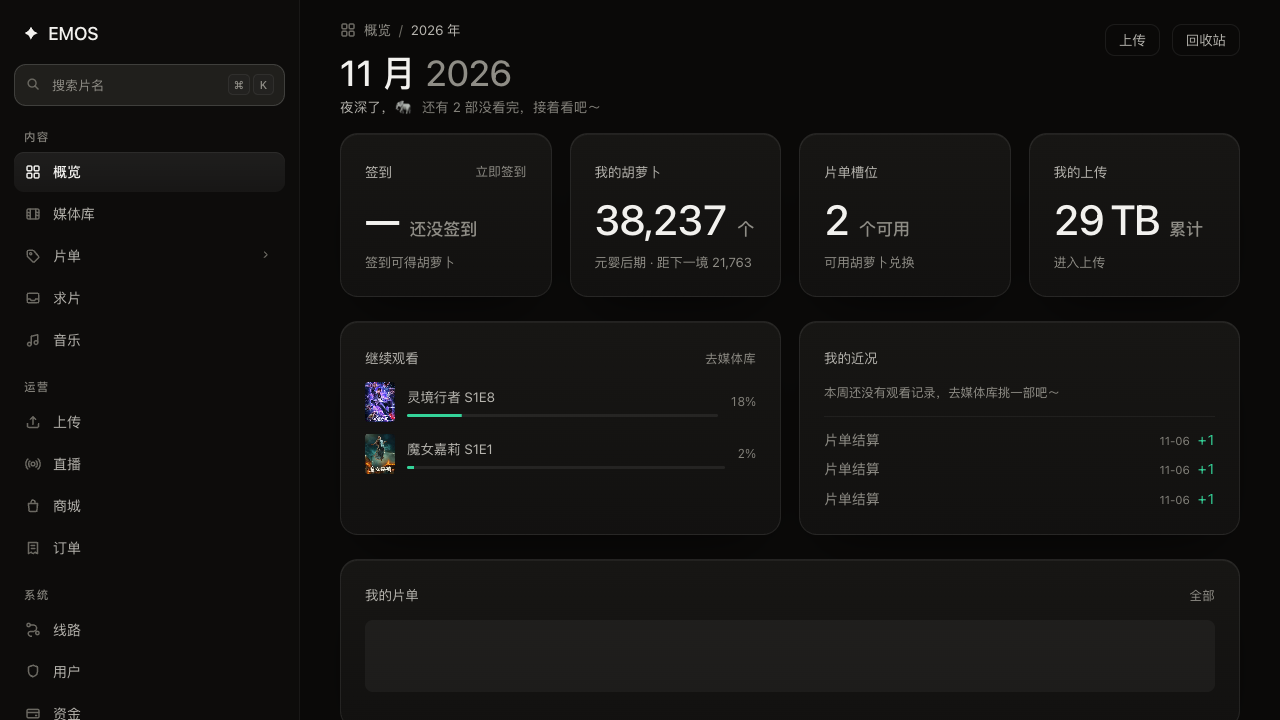
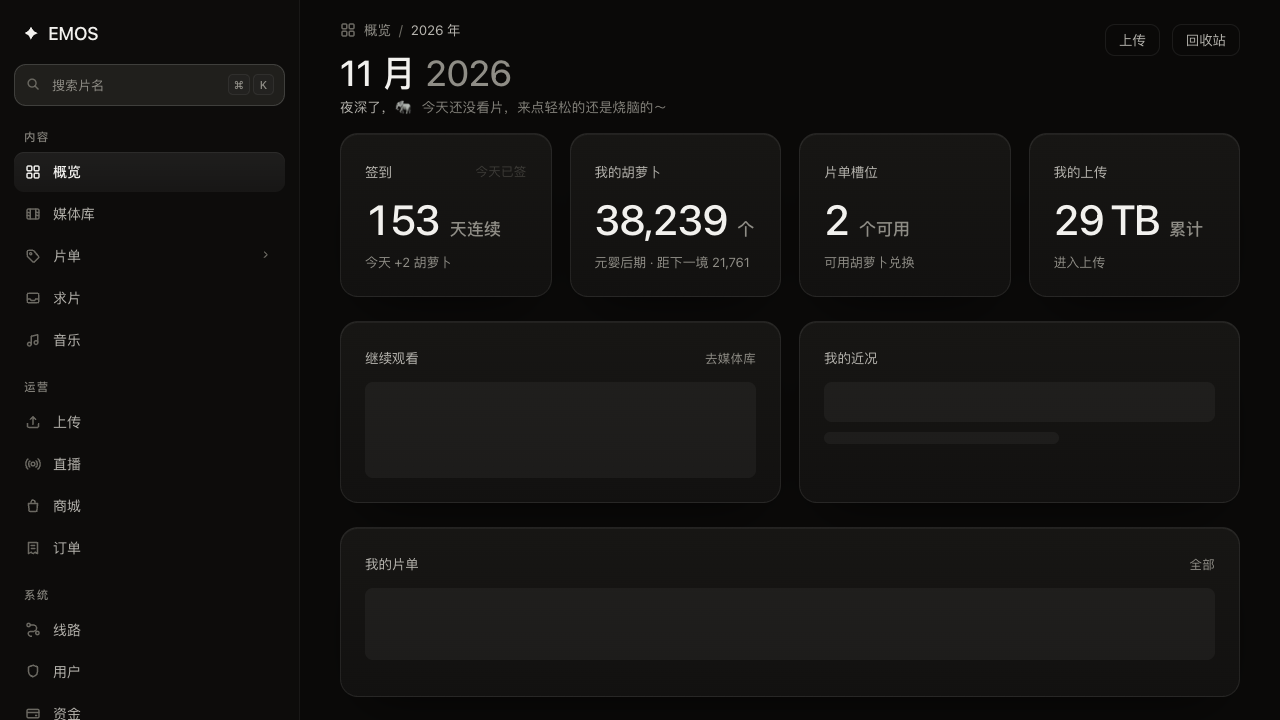
fix: 签到卡自相矛盾，以及代理异常被当成失败
签到卡：未签到时值显示「—」而单位写「还没签到」——破折号在本站表示
「没取到数据」，与「还没签到」是两种含义。未签到是有数据的状态，
改为显示「今天未签」文字（24px，不用 42px 数字样式），加载中才用「—」。

代理与重试：
- vite proxy 补 timeout/proxyTimeout 120s，上游偶尔 10s+ 才响应
- proxy error 时返回 504 而不是默认的 500，并给出可读 message
- 客户端重试条件从「仅网络错误」扩到 502/503/504：
  此前代理 ECONNRESET 变成 500，页面直接报「连不上服务器」

实测登录流程：令牌校验通过并进入概览（上游 6-18s，靠重试完成）

diff --git a/vite.config.ts b/vite.config.ts
@@ -37,9 +37,22 @@ export default defineConfig({
         target: API_ORIGIN,
         changeOrigin: true,
         secure: false,
+        // 上游偶发 10s+ 才响应，默认超时会被切断并变成 ECONNRESET
+        timeout: 120_000,
+        proxyTimeout: 120_000,
         headers: {
           'EMOS-PROXY-NAME': '@Elephant',
           'EMOS-PROXY-ID': 'e7E6K6OE4s',
+        },
+        // 上游偶发 ECONNRESET 时默认会返回 500，客户端不会重试。
+        // 改成 504，让 buildUrl 的重试逻辑（502/503/504）接手。
+        configure: (proxy: { on: (event: string, handler: (...args: unknown[]) => void) => void }) => {
+          proxy.on('error', (...args: unknown[]) => {
+            const res = args[2] as { headersSent?: boolean; writeHead?: (code: number, headers: Record<string, string>) => void; end?: (body: string) => void }
+            if (!res || res.headersSent) return
+            res.writeHead?.(504, { 'Content-Type': 'application/json' })
+            res.end?.(JSON.stringify({ message: '上游响应超时，已重试' }))
+          })
         },
       },
     },

diff --git a/src/views/OverviewView.tsx b/src/views/OverviewView.tsx
@@ -124,8 +124,20 @@ export function OverviewView() {
             </button>
           </p>
           <p className="stat__value">
-            {!ready ? '—' : signedToday ? (signInfo?.continuous_days ?? 0) : '—'}
-            <small>{!ready ? '读取中' : signedToday ? '天连续' : '还没签到'}</small>
+            {!ready ? (
+              <>
+                —
+                <small>读取中</small>
+              </>
+            ) : signedToday ? (
+              <>
+                {signInfo?.continuous_days ?? 0}
+                <small>天连续</small>
+              </>
+            ) : (
+              // 未签到是有数据的状态，不该用表示「没取到」的破折号
+              <span className="stat__word">今天未签</span>
+            )}
           </p>
           <p className="stat__delta stat__delta--quiet">
             {signedToday ? `今天 +${signInfo?.earn_point ?? 0} 胡萝卜` : '签到可得胡萝卜'}

diff --git a/src/api/client.ts b/src/api/client.ts
@@ -63,7 +63,9 @@ async function withRetry<T>(fn: () => Promise<T>, attempts: number): Promise<T> 
     } catch (error) {
       lastError = error
       const status = (error as { status?: number }).status
-      if (status !== 0 || i === attempts - 1) throw error
+      // 0 = 网络层失败；502/503/504 = 代理或上游临时不可用，GET 可安全重试
+      const retryable = status === 0 || status === 502 || status === 503 || status === 504
+      if (!retryable || i === attempts - 1) throw error
       await new Promise((resolve) => setTimeout(resolve, 300 * (i + 1)))
     }
   }

diff --git a/src/styles/components.css b/src/styles/components.css
@@ -1031,6 +1031,13 @@ th.num .th-sort { flex-direction: row-reverse; }
 
 .card--stat > .stat__label { line-height: 1.3; }
 
+.stat__word {
+  font-size: 24px;
+  font-weight: 500;
+  letter-spacing: 0;
+  color: var(--fg-2);
+}
+
 .card--stat > .stat__value {
   margin: 0;
   align-items: baseline;
